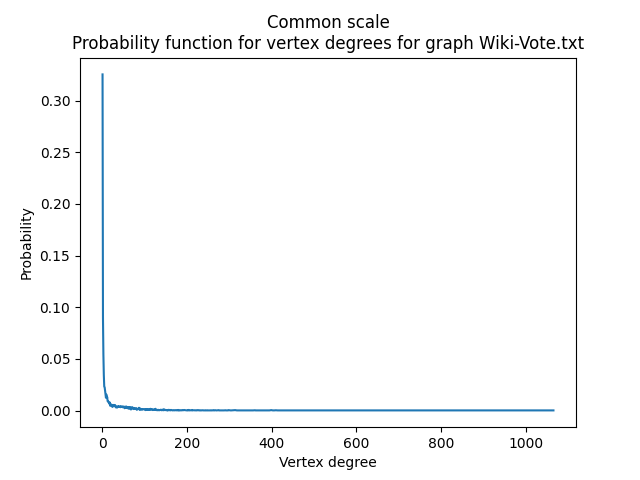
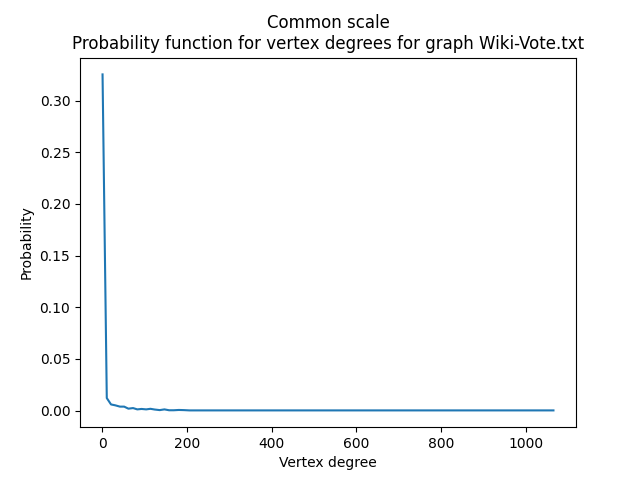
feat: plot 10 percent of degrees of graph in 1A5 task

Changed region(s): [[0.1562, 0.2188, 0.1875, 0.8438], [0.1875, 0.8438, 0.25, 0.875]]

diff --git a/src/save_func_pictures.py b/src/save_func_pictures.py
@@ -1,6 +1,7 @@
 from typing import Tuple, Set, Dict, List
 
 import matplotlib.pyplot as plt
+from numpy import linspace
 
 from definitions import (
     IMAGES_VERTEX_DEGREE_PROB_COMMON_SCALE,
@@ -15,21 +16,25 @@ def saveNodeDegreeProbFunc(
     Saves graphs of probability functions for vertex degrees in common and
     log log scales
     """
+    image_name = graph_name[: graph_name.find(".")] + ".png"
     total_nodes = len(undir_adj_list)
-
     degree_freq: Dict[int, int] = {}
     for node_ind in range(total_nodes):
         new_node_degree = len(undir_adj_list[node_ind])
         if new_node_degree not in degree_freq:
             degree_freq[new_node_degree] = 0
         degree_freq[new_node_degree] += 1
+    degree_freq_size = len(degree_freq)
     degree_prob_pair_lst: List[Tuple[int, float]] = []
     for degree, freq in degree_freq.items():
         degree_prob_pair_lst.append((degree, freq / total_nodes))
     degree_prob_pair_lst.sort()
-    image_name = graph_name[: graph_name.find(".")] + ".png"
-    label_x_data = list(pair[0] for pair in degree_prob_pair_lst)
-    label_y_data = list(pair[1] for pair in degree_prob_pair_lst)
+    nodes_to_plot = int(degree_freq_size * 0.1)
+    plotted_pairs_ind = linspace(
+        0, degree_freq_size - 1, nodes_to_plot, dtype=int
+    )
+    label_x_data = list(degree_prob_pair_lst[i][0] for i in plotted_pairs_ind)
+    label_y_data = list(degree_prob_pair_lst[i][1] for i in plotted_pairs_ind)
     plt.plot(label_x_data, label_y_data)
     plt.title(
         "Common scale\n"

diff --git a/README.md b/README.md
@@ -28,4 +28,4 @@ For Windows use `$env:PYTHONPATH="src";` instead of `PYTHONPATH=src`
 `PYTHONPATH=src pypy3 src/network_structure_analysis/A/four/main.py`
 
 ### Run task 1A5
-`PYTHONPATH=src python3 src/network_structure_analysis/A/five/main.py`
+`PYTHONPATH=src pypy3 src/network_structure_analysis/A/five/main.py`
